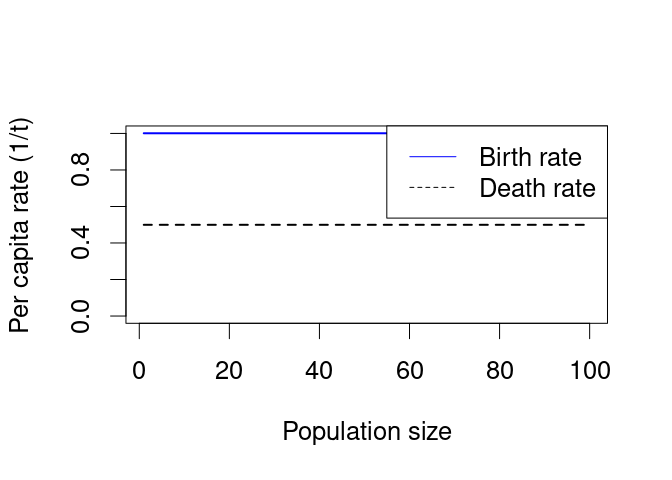
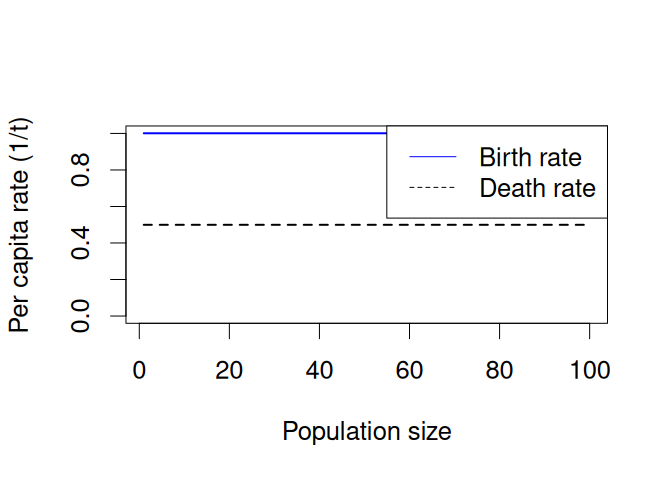
332

diff --git a/materials/bd.export.md b/materials/bd.export.md
@@ -4,13 +4,11 @@ title: BirthDeath
 ---
 
 
-Intro
-=====
+# Intro
 
 See also [Introduction to R page](r.export.html).
 
-A new library
-=============
+# A new library
 
 The time plots in bd use a “library” called deSolve, which may not be
 installed with your version of R. If you are not sure, type:
@@ -21,8 +19,7 @@ installed with your version of R. If you are not sure, type:
 you can skip this step and come back if you get an error saying you do
 not have the package deSolve.
 
-Loading
-=======
+# Loading
 
 To load `bd`, type:
 
@@ -37,8 +34,7 @@ file](https://raw.githubusercontent.com/Bio3SS/Exponential_figures/master/bd.R)
 directly. It’s a good idea to open it directly if you want to work on
 this project somewhere without an internet connection.
 
-Sample plots
-============
+# Sample plots
 
 If we say, for example:
 
@@ -46,15 +42,13 @@ If we say, for example:
 
 ![](bd.rmd_files/figure-markdown_strict/unnamed-chunk-2-1.png)![](bd.rmd_files/figure-markdown_strict/unnamed-chunk-2-2.png)
 
-Don’t worry
------------
+## Don’t worry
 
 Depending on how R is set up, it will probably show a blank plot window
 first when you run `bd`. Just hit enter to see the first plot, and so
 on.
 
-Basic idea
-==========
+# Basic idea
 
 We construct a birth rate and a death rate using a starting value (which
 is a rate, with units 1/time) and characteristic values for density
@@ -73,7 +67,7 @@ are strong when the population is smaller than the characteristic value
 for Allee effects.
 
 The equation for per-capita birth rate is
-*b*(*N*) = *b*<sub>0</sub>exp ( − *N*/*D*<sub>*b*</sub>)exp ( − *A*<sub>*b*</sub>/*N*)
+*b*(*N*) = *b*<sub>0</sub>exp (−*N*/*D*<sub>*b*</sub>)exp (−*A*<sub>*b*</sub>/*N*)
 . The negative signs are because when things get worse the birth rate
 gets lower. If either
 *D*<sub>*b*</sub>
@@ -95,8 +89,7 @@ units as the population. When Allee effect parameters get bigger, or
 density-dependence parameters get smaller, that means that these effects
 kick in sooner, with stronger effects.
 
-Arguments
-=========
+# Arguments
 
 To see the arguments for bd, type:
 
@@ -111,8 +104,7 @@ To see the arguments for bd, type:
 
 (units in parens)
 
-Parameters
-----------
+## Parameters
 
 -   `b0`: Per capita birth rate before Allee or DD effects (1/t)
 -   `bDD` –
@@ -129,8 +121,7 @@ Parameters
     *A*<sub>*d*</sub>
     : Scale for Allee effects on death rate (indiv)
 
-Simulation
-----------
+## Simulation
 
 -   `N0`: sets the value of
     *N*<sub>0</sub>
@@ -138,15 +129,13 @@ Simulation
 -   `MaxTime`: How long to simulate (t)
 -   `steps`: Number of points to plot in simulation (1)
 
-Rates
------
+## Rates
 
 -   `popMax`: Maximum population to plot for rates (indiv)
 -   `reportPcTotal`: Report growth rates as **p**er capita, **t**otal
     **b**oth or **n**either.
 
-Appearance
-----------
+## Appearance
 
 -   `legendSize` controls the size of the legend. The default is 1, so
     use e.g., 0.5 to make the legend half as big.
